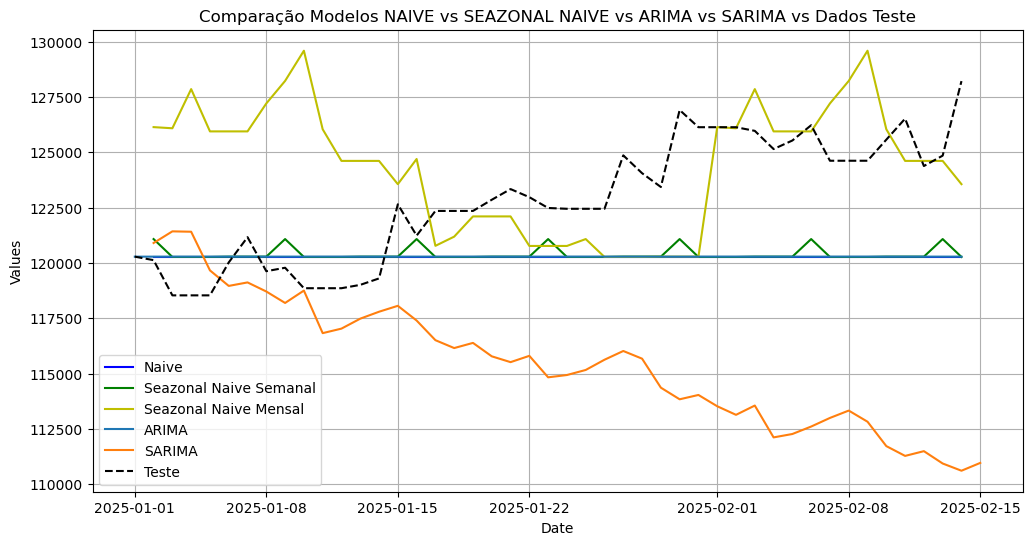
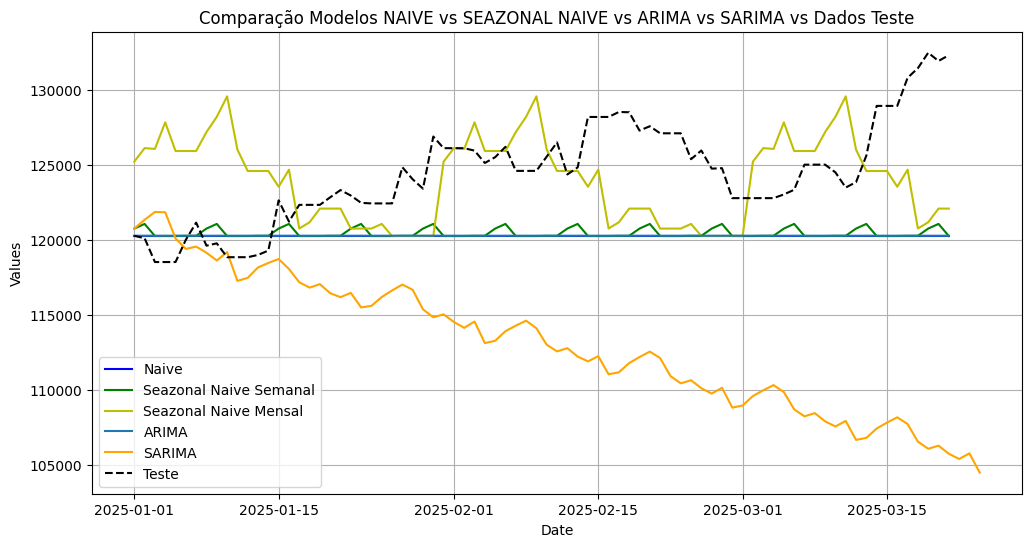
docs(2_ibov): Implement conclusion and final plots on docs

diff --git a/challenges/2_ibov/README.md b/challenges/2_ibov/README.md
@@ -169,7 +169,7 @@ A camada ouro envolve o processamento final e a preparação dos dados para aná
 - **Etapas:**
   - Ler dados da camada prata.
   - Calcular matrizes de correlação.
-  - Ajustar modelos ARIMA aos dados.
+  - Ajustar modelos aos dados.
   - Gerar previsões e compará-las com os valores reais.
   - Plotar os resultados e calcular métricas de precisão.
 
@@ -304,19 +304,49 @@ Ou seja, a previsão para o tempo t será igual ao que foi observado s períodos
 O modelo é muito utilizado em setores com padrão sazonal, como varejo, turismo, produção agrícola ou séries financeiras com efeitos de calendário (ex: comportamento semanal da bolsa de valores).
 
 ##### Comparação Previsão X Teste
+
 Ao avaliar o desempenho do modelo Seasonal Naive nos dados de teste, conseguimos entender se apenas considerar a sazonalidade já é suficiente ou se vale a pena investir em modelos mais robustos, como o SARIMA ou técnicas baseadas em machine learning.
 
 #### Seazonal Naive | Valores Reais X Previsão do Modelo (Semanal)
+
 ![previsao_do_ibovespa_modelo_seazonal_naive_semanal_zoom](plots/previsao_do_ibovespa_modelo_seazonal_naive_semanal_zoom.png)
 
 #### Seazonal Naive | Valores Reais X Previsão do Modelo (Mensal)
+
 ![previsao_do_ibovespa_modelo_seazonal_naive_mensal_zoom](plots/previsao_do_ibovespa_modelo_seazonal_naive_mensal_zoom.png)
+
+### Resultados Sarima
+
+#### Definição Sarima
+
+### Resultado Final, Comparação entre modelos
+
+#### Comparação Resultado no mesmo periodo
+
+![comparacao_modelos_total_zoom](plots/comparacao_modelos_total_zoom.png)
+
+#### Comparação Valores
+
+![comparacao_todos_modelos_dados_teste_separados](plots/comparacao_todos_modelos_dados_teste_separados.png)
+
+#### Comparação Precisão
+
+![comparacao_percentual_erro_total_todos_modelos](plots/comparacao_percentual_erro_total_todos_modelos.png)
+
+## Conclusão
+
+Conforme demostrado pelo gráfico abaixo, os Modelos Naive, Arima, Seazonal Naive Semanal & Mensal tiveram precisões similares, de 96% variando 0,23% entre o maior e menor destes
+
+Porém o Seazonal Naive Mensal obteve em valores absolutos a maior precisão: 96,68%
+
+![comparacao_todos_modelos_dados_teste_separados](plots/comparacao_percentual_precisao_previsao_total_todos_modelos.png)
 
 ## Referencias
 
 ### Referencias Gerais
 
 - [Explicação Índice Ibov](https://www.b3.com.br/pt_br/market-data-e-indices/indices/indices-amplos/ibovespa.htm)
+- [Historia Bolsa](https://mub3.org.br/acervo/historia-da-bolsa)
 - [Composição Índice Ibov](https://www.b3.com.br/pt_br/market-data-e-indices/indices/indices-amplos/indice-ibovespa-ibovespa-composicao-da-carteira.htm)
 - [Cotação Índice IBOV](https://br.investing.com/indices/bovespa)
 - [Investing - Principais Indices](https://br.investing.com/indices/major-indices)
